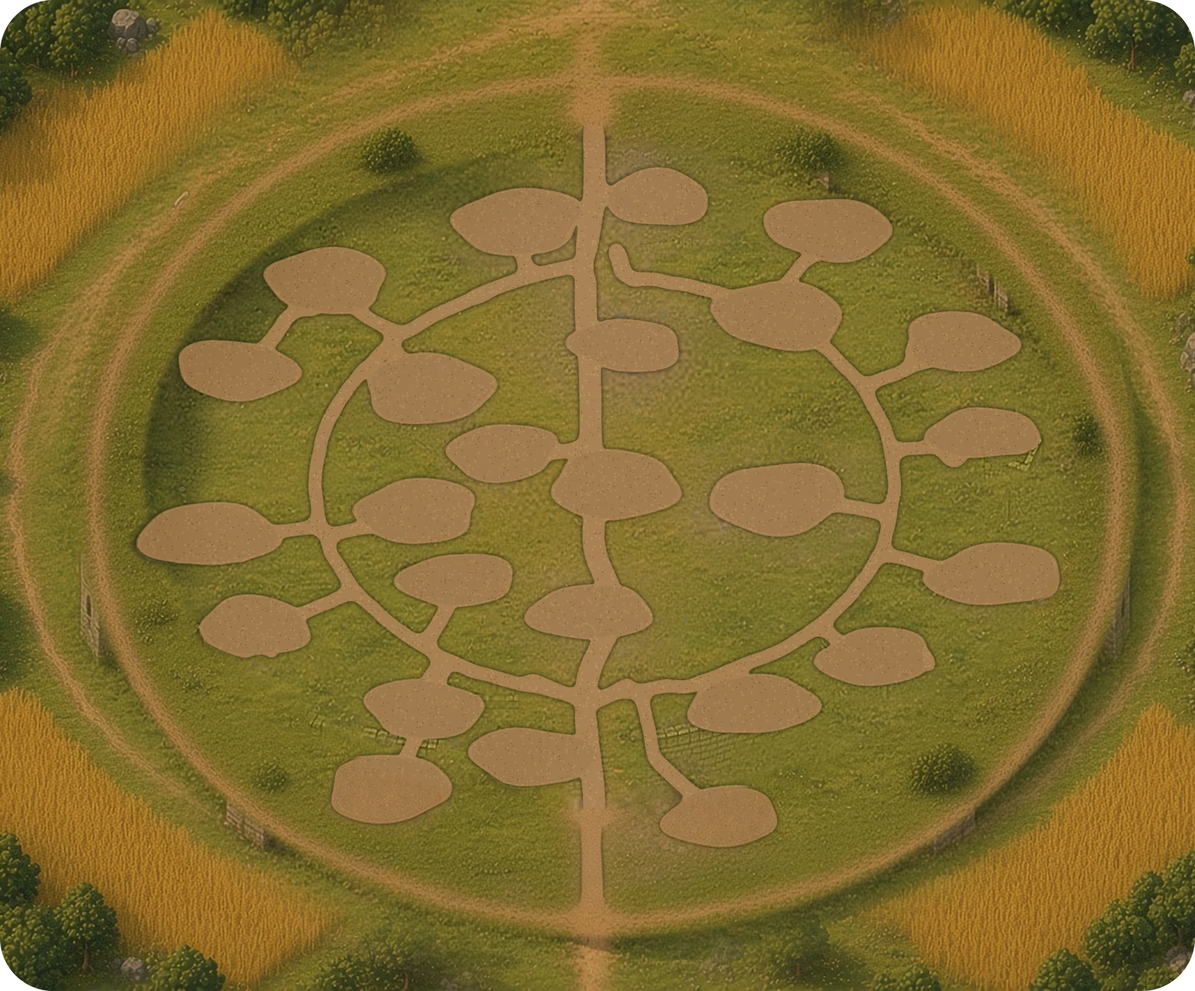
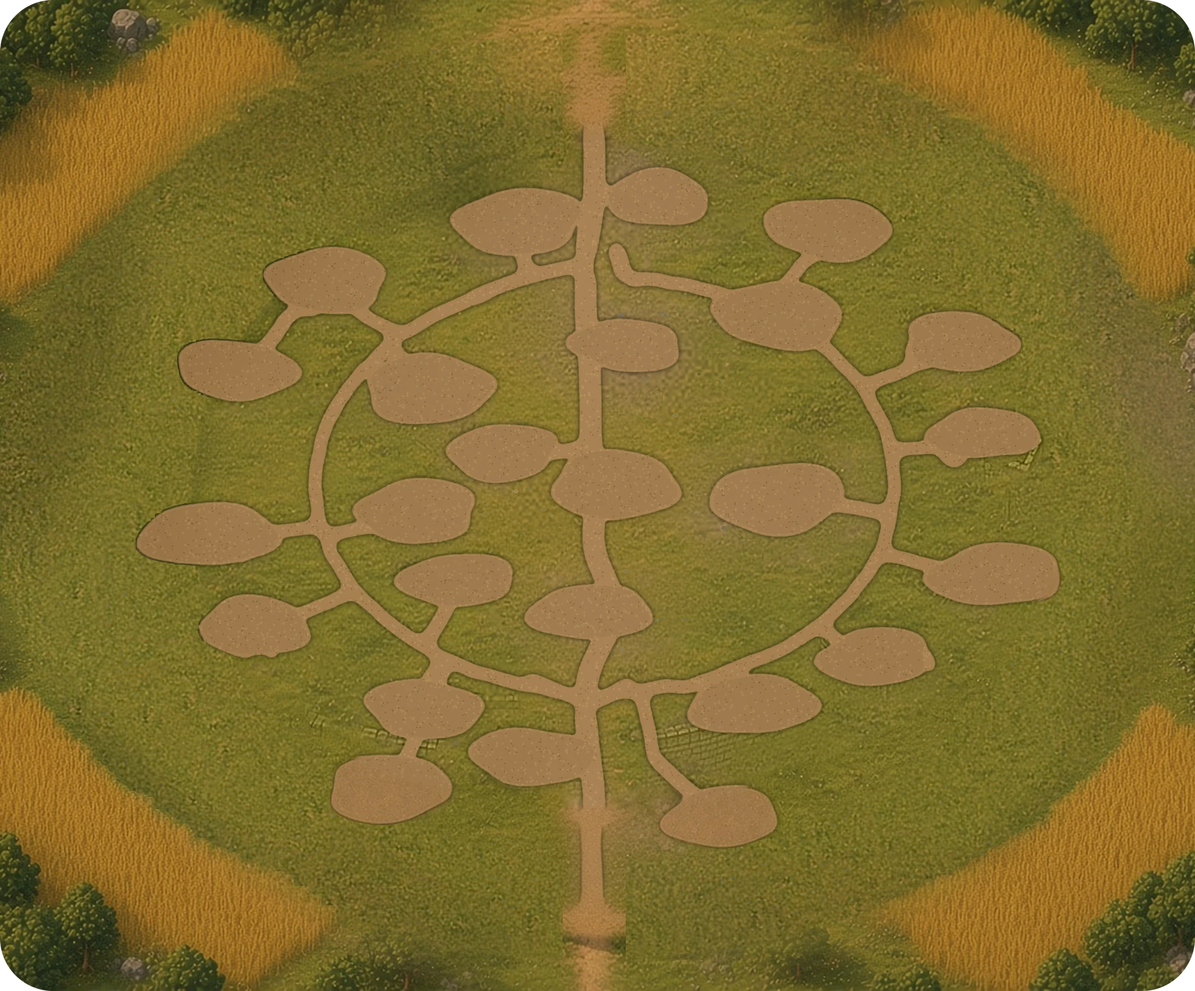
Village background without wall: leftover wall ring removed (Cali)
img/vcentre/bg0.webp redrawn by Cali (Grok bot) with the wall ring gone; its
version tag in css/vcentre.css bumped to 20261024nw2 so browsers fetch it.
Reviewed by the user on dev.

Changed region(s): [[0.0, 0.0312, 0.4653, 0.9688], [0.5273, 0.0312, 1.0, 0.9688]]

diff --git a/css/vcentre.css b/css/vcentre.css
@@ -100,7 +100,7 @@ img.g50 { background-image: url("../img/vcentre/g50.webp?v=20261023v9f"); backgr
 img.g43 { background-image: url("../img/vcentre/g43.webp?v=20261023v9f"); background-size: 75px 100px; }
 img.g44 { background-image: url("../img/vcentre/g44.webp?v=20261023v9e"); background-size: 75px 100px; }
 img.g44b { background-image: url("../img/vcentre/g44b.webp?v=20261023v9e"); background-size: 75px 100px; }
-div.village2 div.d2_0 { background-image: url("../img/vcentre/bg0.webp?v=20261023v9f"); background-size: 540px 448px; }
+div.village2 div.d2_0 { background-image: url("../img/vcentre/bg0.webp?v=20261024nw2"); background-size: 540px 448px; }
 div.village2 div.d2_1 { background-image: url("../img/vcentre/bg1.webp?v=20261023v9f"); background-size: 540px 448px; }
 div.village2 div.d2_11 { background-image: url("../img/vcentre/bg11.webp?v=20261023v9f"); background-size: 540px 448px; }
 div.village2 div.d2_12 { background-image: url("../img/vcentre/bg12.webp?v=20261023v9f"); background-size: 540px 448px; }
